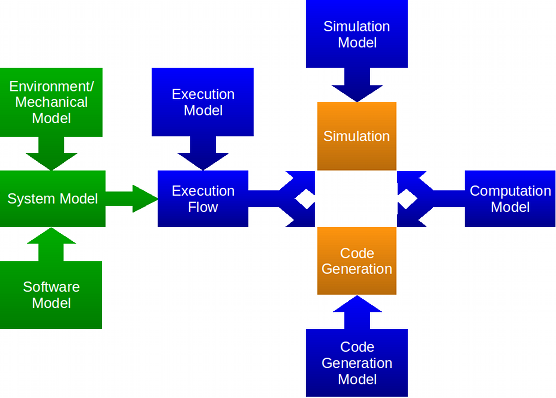
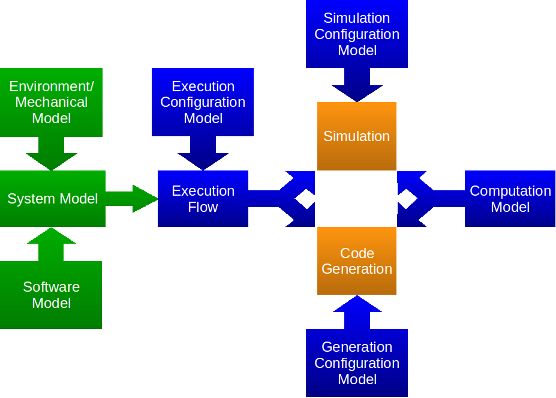
Alpha version of Damos project proposal.

diff --git a/media/proposals/damos-proposal/proposal.html b/media/proposals/damos-proposal/proposal.html
@@ -108,7 +108,15 @@ it is most commonly used in control systems engineering and digital signal proce
 	of hosting at Eclipse Labs?
  -->
 
- 
+<p>Currently, Eclipse does not provide tool support for modeling data flow-oriented systems.
+Engineers and scientists are forced to use commercial tools which do not integrate with other Eclipse technologies very well.
+Furthermore, due to the closed source nature of commercial tools, it is difficult to customize and extend these tools to better
+integrate them with other Eclipse technologies.</p>
+
+<p>This project will benefit from being hosted at Eclipse due to the broader visibility in contrast to other project hosting providers.
+Because of the perceived higher reliability in terms of long-term support,
+it is expected to attract more interest and participation from other parties.
+This will lead to greater market penetration, while improving quality and reducing development costs.</p> 
 
 <h2>Initial Contribution</h2>
 
@@ -131,7 +139,7 @@ There are two main groups of components. The first group contains components pro
 and the diagram editing features of the modeling environment (orange).
 The second group provides simulation and code generation components as well as the standard block library (green).
 This enables other projects to build their own data flow-oriented languages by reusing the structural semantics
-and diagram editing components, and without being required to ship unneeded components.</p>
+and the diagram editing components, and without being required to include unneeded components.</p>
 
 <p></p>
 
@@ -140,7 +148,7 @@ and diagram editing components, and without being required to ship unneeded comp
 <p>The Eclipse extension mechanism can be used to customize and extend various aspects of the tooling, e.g:
 <ul>
 <li>Registering block libraries</li>
-<li>Contributing the visual representation for blocks</li>
+<li>Contributing the visual representation (i.e. symbols) of blocks</li>
 <li>Providing simulation behavior</li>
 <li>Providing additional solvers</li>
 <li>Providing code generators</li>
@@ -156,12 +164,12 @@ This enables users to perform model analysis and transformation using well-known
 
 <p>System models are comprised of models describing the mechanical components and the physical environment of a device,
 and the software model that will later be executed on that device.
-These models are described graphically using block diagrams.</p>
+These models are specified using block diagrams.</p>
 
 <p>When performing model simulation or code generation, an execution flow is first derived from the system model.
 The execution flow contains the execution graphs (i.e. the execution order of system components) of the system model.
-The execution-specific configuration must be provided in an execution model.
-The simulation and the code generation models are used to configure the simulation process (e.g. solver configuration)
+The execution-specific configuration must be provided in an execution configuration model.
+The simulation and code generation configuration models are used to configure the simulation process (e.g. solver configuration)
 and the code generator (e.g. target directories), respectively.
 The computation model specifies the computation algorithms utilized in the target device (e.g. fixed-point arithmetic vs. floating-point arithmetic).</p>
 
@@ -174,7 +182,7 @@ For all other models, textual model editors based on Xtext are provided.</p>
 
 <p>The graphical block diagram editor is used for editing system models.
 It can also be used to visualize real-time simulation results using virtual instruments.
-Block diagram files contain two model types: the semantic model of the system model and
+Block diagram files contain two model types: the semantic model of the system and
 the notation model containing the graphical information of the block diagram.
 When processing block diagrams, the notation model is usually ignored.</p>
 
@@ -191,7 +199,7 @@ Additional solvers can be provided using the Eclipse extension mechanism.
 When real-time simulation is performed, simulation results can be displayed in real-time using virtual instrument blocks.
 The simulation engine incorporates a target-specific computation model,
 so that&mdash;for instance&mdash;overflows can be detected when using fixed-point arithmetic.
-Simulation aspects (e.g. solver configuration) can be configured using a simulation model.</p>
+Simulation aspects (e.g. solver configuration) can be configured using a simulation configuration model.</p>
 
 <h4>Code Generator</h4>
 
@@ -201,7 +209,7 @@ Each system component can provide its own code generator.
 When using Mscript to describe the block behavior, an Mscript-specific code generator is used that
 transforms the Mscript functions into C code.
 The code generators incorporate a target-specific computation model containing information on how arithmetic operations should be handled.
-The code generation process can be configured using a generator model (e.g. target directories).</p>
+The code generation process can be configured using a generator configuration model (e.g. target directories).</p>
 
 <h4>Block Library</h4>
 
@@ -211,9 +219,9 @@ The block behavior can be specified using the declarative programming language M
 
 <h4>Mscript</h4>
 
-<p>Mscript is a declarative programming language where one defines the relationship between the inputs and outputs
+<p>Mscript is a declarative programming language where the user defines the relationship between the inputs and outputs
 of a function using a set of equations.
-In contrast to a functional language, Mscript functions can be stateful.
+In contrast to functional languages, Mscript functions can be stateful.
 Consequently, such functions must be instantiated (function objects).
 Stateful function equations can reference previous input and output values,
 which enable the specification of difference equations.
@@ -235,6 +243,8 @@ allow for specifying time-continuous blocks.
 	absolutely require?
  -->
  
+ All contributions will be distributed under the Eclipse Public License.
+ 
 <h2>Committers</h2>
 
 <!-- 
@@ -246,13 +256,7 @@ allow for specifying time-continuous blocks.
 <p>The following individuals are proposed as initial committers to the project:</p>
 
 <dl>
-	<dt>Committer 1, Affiliation</dt>
-	<dd>Committer 1 is a committer on the *** project where he has made significant contributions over
-	many years. S/he will be contribute to the *** functionality in this new project.</dd>
-	<dt>Committer 2, Affiliation</dt>
-	<dd>Committer 2 has provided significant contributions to the existing code base. S/he will contribute
-	to the *** functionality in this new project.
-	</dd>
+	<dt>Andreas Unger, itemis (Project Lead)</dt>
 </dl>
 
 <p>We welcome additional committers and contributions.</p>
@@ -292,8 +296,10 @@ project:</p>
 expressed interest in this project:</p>
 
 <ul>
-	<li>Somebody, Affiliation</li>
-	<li>Somebody else, Affiliation</li>
+	<li><a href="http://www.ksb.com/">KSB</a></li>
+	<li><a href="http://www.fh-dortmund.de/">University of Applied Sciences Dortmund</a></li>
+	<li><a href="http://www.itemis.com/">itemis</a></li>
+	<li><a href="http://www.sennheiser.com/">Sennheiser</a></li>
 </ul>
 
 <h2>Project Scheduling</h2>
@@ -304,6 +310,8 @@ expressed interest in this project:</p>
 	should be expected, when your first build will be ready, etc. Exact
 	dates are not required.
  -->
+
+Initial contribution is expected in the second quarter of 2012. 
 
 <h2>Changes to this Document</h2>
 
